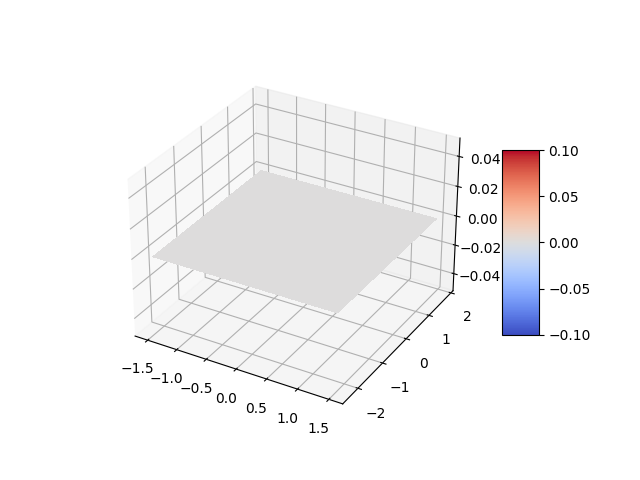
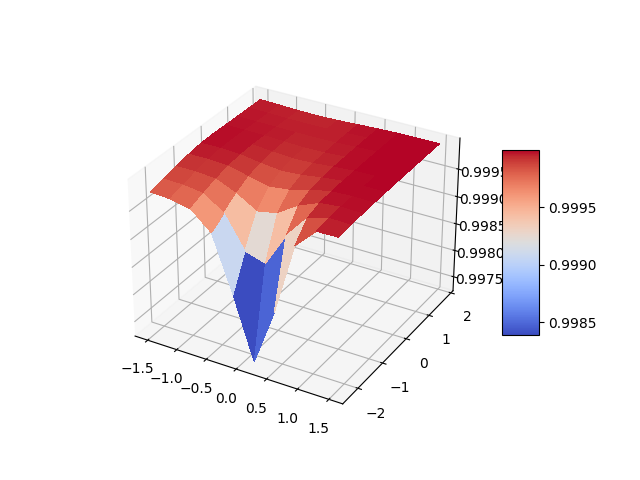
any changes not pushed before break

diff --git a/omniisaacgymenvs/scripts/rlgames_confidence.py b/omniisaacgymenvs/scripts/rlgames_confidence.py
@@ -181,9 +181,9 @@ def parse_hydra_configs(cfg: DictConfig):
     agent.has_batch_dimension = True
 
     #for confidence estimate
-    experience = Experience(prior_alpha = 0.0, prior_beta=0.0, length_scale=10.0, num_env = cfg.num_envs)
+    experience = Experience(prior_alpha = 0.0, prior_beta=0.0, length_scale=0.7, num_env = cfg.num_envs)
 
-    while env._simulation_app.is_running() and env.sim_frame_count<500:
+    while env._simulation_app.is_running() and env.sim_frame_count<1000:
         if env._world.is_playing():
             if env._world.current_time_step_index == 0:
                 obs = env._world.reset(soft=True)
@@ -206,13 +206,14 @@ def parse_hydra_configs(cfg: DictConfig):
     # -1.5, 1.5
     # -0.3, 0.2
 
-    x_init_space = np.linspace(-1.5,1.5, 20)
-    y_init_space = np.linspace(-2.3,1.8, 20)
+    print(len(experience.successful_states))
+    x_init_space = np.linspace(-1.5,1.5, 10)
+    y_init_space = np.linspace(-2.3,1.8, 10)
     X, Y = np.meshgrid(x_init_space, y_init_space)
     Z = np.zeros_like(X)
     for i,x in enumerate(x_init_space):
         for j,y in enumerate(y_init_space):
-            state = np.array([x,y, 0.065, 0.0007963 , 0, 0, 0.9999997, -1.2, 1.5])
+            state = np.array([x,y, 0.0635, 0.70711 , 0., 0., 0.70711, -1.2, 1.5])
             Z[i,j], sigma, alpha, beta = experience.get_state_value(state)
     # print(value, sigma, alpha, beta)
 

diff --git a/omniisaacgymenvs/tasks/jackal.py b/omniisaacgymenvs/tasks/jackal.py
@@ -190,8 +190,8 @@ class JackalTask(RLTask):
         # Add action conditional later
         velocity = torch.zeros((self._jackals.count, self._jackals.num_dof), dtype=torch.float32, device=self._device)
 
-        velocity[:,0],velocity[:,1] = self.wheel_velocities(actions[:,0]*2,actions[:,1]*20)
-        velocity[:,2],velocity[:,3] = self.wheel_velocities(actions[:,0]*2,actions[:,1]*20)
+        velocity[:,0],velocity[:,1] = self.wheel_velocities(actions[:,0]*2,actions[:,1]*30)
+        velocity[:,2],velocity[:,3] = self.wheel_velocities(actions[:,0]*2,actions[:,1]*30)
         
 
 

diff --git a/omniisaacgymenvs/utils/experience.py b/omniisaacgymenvs/utils/experience.py
@@ -36,6 +36,7 @@ class Experience(object):
 
         for episode in self.successful_states:
         	for old_state in episode:
+
         		state_delta = old_state - state
 
         		weight = np.exp(-1.0*(np.linalg.norm(state_delta/length_scale))**2)
